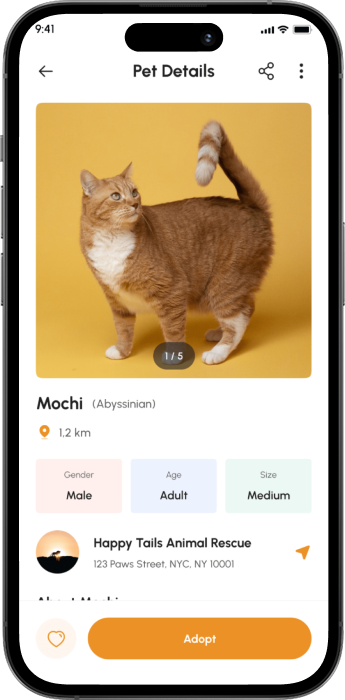
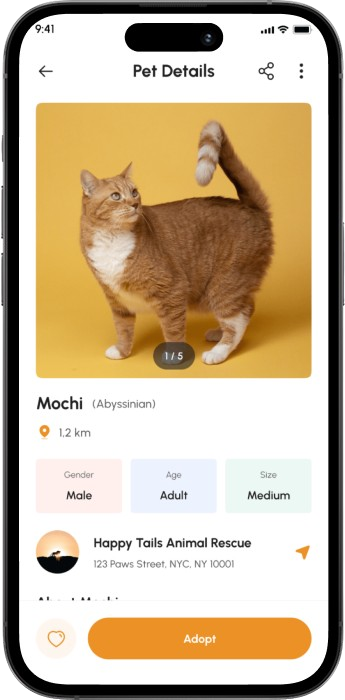
Avance de Vista

diff --git a/src/Pages/StepPet/StepPet.jsx b/src/Pages/StepPet/StepPet.jsx
@@ -1,4 +1,10 @@
 import { useNavigate } from "react-router-dom";
+import Position from '../../assets/posicionamiento-Step.png';
+import ButtonBack from '../../assets/BackButton.png';
+import ImgFrontal from '../../assets/ImgStepPet.png';
+import DogButton from '../../assets/DogButton.png';
+import CatButton from '../../assets/CatButton.png';
+import Paper from '../../assets/Paper.png';
 
 export const StepPet = () => {
     const navigate = useNavigate();
@@ -14,26 +20,46 @@ export const StepPet = () => {
     }
 
     return (
-        <div className="flex flex-col items-center justify-center min-h-screen bg-gray-100 p-6">
-            <div className="bg-white p-6 rounded-2xl shadow-lg w-full max-w-md">
-                <h1 className="text-2xl font-bold text-center text-gray-800 mb-4">Nombra a tu mascota</h1>
-                <input 
-                    type="text" 
-                    placeholder="Nombre de la mascota" 
-                    className="w-full p-3 border rounded-lg mb-3 focus:outline-none focus:ring-2 focus:ring-blue-500"
-                />
-                <select 
-                    className="w-full p-3 border rounded-lg mb-3 focus:outline-none focus:ring-2 focus:ring-blue-500"
-                >
-                    <option value="">Selecciona el tipo de mascota</option>
-                    <option value="perro">Perro</option>
-                    <option value="gato">Gato</option>
-                </select>
-                <div className="flex justify-between gap-2">
-                    <button onClick={handleConfirm} className="w-1/2 bg-blue-500 text-white p-3 rounded-lg hover:bg-blue-600 transition">Confirmar</button>
-                    <button onClick={handleSkip} className="w-1/2 bg-gray-300 text-gray-800 p-3 rounded-lg hover:bg-gray-400 transition">Saltar</button>
-                </div>
+        <div className="flex flex-col items-center justify-center aling-column min-h-screen bg-white p-1">
+            <div className="bg-white p-4 rounded-2xl  w-full max-w-md">
+                <nav className="flex justify-between items-center mb-[1rem]">
+                    <li className="list-none"><img src={ButtonBack} alt="" /></li>
+                    <img src={Position} alt="" />
+                    <p>1/3</p>
+                </nav>          
+                    <h2 className="text-2xl font-bold mb-2 text-center" >Nombra tu mascota🐾</h2>        
+                    <img className="mx-auto w-auto h-[9rem]" src={ImgFrontal} alt="" />
+                    
+                    <div className="flex flex-col gap-2">
+                        <label  htmlFor="">Nombre</label>
+                        <div className="relative w-full">
+                            <img src={Paper} alt="Icono de papel" className="absolute left-3 top-1/2 transform -translate-y-1/2 w-5 h-5" />
+                            <input 
+                                type="text" 
+                                id="nombre" 
+                                placeholder="Nombre" 
+                                className="border border-gray-300 rounded-md p-2 pl-10 w-full"
+                            />
+                        </div>
+
+                        <label htmlFor="">¿Cual es tu tipo de Mascota?</label>
+                            <div className="flex justify-around gap-2">
+                                <button className="flex flex-col items-center">
+                                    <img className="w-23 h-[5rem]" src={DogButton} alt="DogButton" />
+                                    <p className="relative z-10 text-center mt-1 font-semibold bottom-9">Perro</p>
+                                </button>
+                                <button className="flex flex-col items-center">
+                                    <img className="w-23 h-[5rem]" src={CatButton} alt="CatButton" />
+                                    <p className="relative z-10 text-center mt-1 font-semibold bottom-9">Gato</p>
+                                </button>
+                            </div>
+                    </div>
+                    
             </div>
+            <div className="flex flex-col gap-2 mb-4">
+                    <button onClick={handleConfirm} className="w-[25rem] bg-orange-400 text-white p-3 rounded-3xl">Confirmar</button>
+                    <button onClick={handleSkip} className="w-[25rem] bg-gray-200 text-gray-800 p-3 rounded-3xl ">Saltar</button>
+                </div>
         </div>
     );
 };

diff --git a/src/App.jsx b/src/App.jsx
@@ -8,17 +8,17 @@ import { SplashScreen } from './Pages/SplashScreen/SplashScreen';
 
 function App() {
 
-  const [loading,setLoading] = useState(true);
+  // const [loading,setLoading] = useState(true);
 
-  useEffect(() =>{
+  // useEffect(() =>{
 
-    const timer= setTimeout(() => setLoading(false),1000);
-    return () => clearTimeout(timer)
+  //   const timer= setTimeout(() => setLoading(false),1000);
+  //   return () => clearTimeout(timer)
 
-  },[])
+  // },[])
 
 
-  return loading? <SplashScreen /> : <RouterProvider router={routes} />;
+  return  <RouterProvider router={routes} />;
 }
 
 export default App;

diff --git a/dev-dist/sw.js b/dev-dist/sw.js
@@ -79,8 +79,7 @@ define(['./workbox-25659a9f'], (function (workbox) { 'use strict';
    */
   workbox.precacheAndRoute([{
     "url": "index.html",
-    "revision": "0.64dao7lbebg"
-
+    "revision": "0.fjn8dfpaedg"
   }], {});
   workbox.cleanupOutdatedCaches();
   workbox.registerRoute(new workbox.NavigationRoute(workbox.createHandlerBoundToURL("index.html"), {